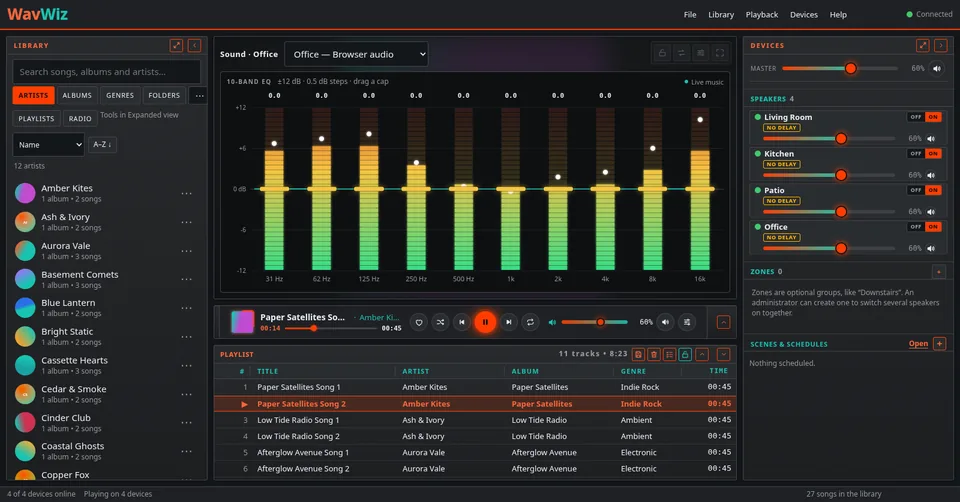
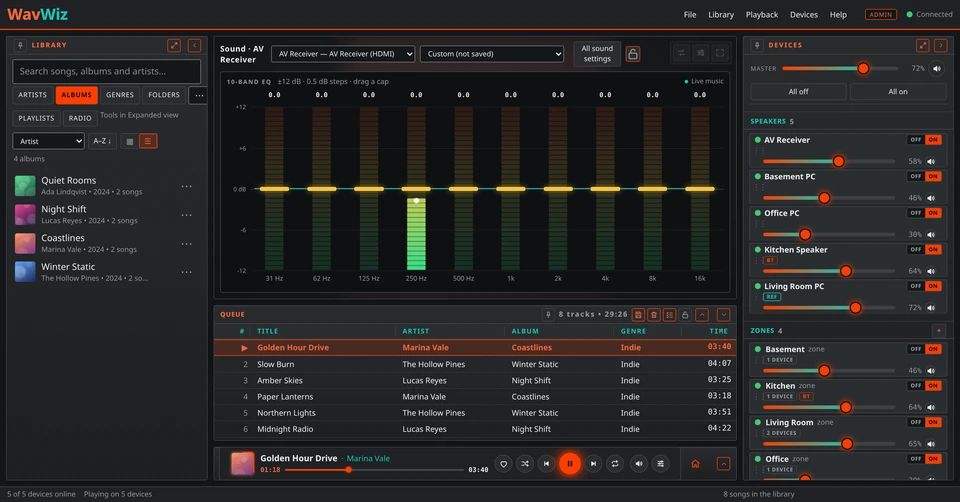
Site: 0.3.9 - Devices section, real 0.3.9 screenshots (devices bar, expanded devices, speaker settings, main window, social preview), What's New, softwareVersion 0.3.9

diff --git a/index.html b/index.html
@@ -19,7 +19,7 @@
   <meta property="og:image:type" content="image/png">
   <meta property="og:image:width" content="1200">
   <meta property="og:image:height" content="630">
-  <meta property="og:image:alt" content="The WavWiz app window: Library on the left, the live LED-bar EQ in the middle with a slim Now Playing bar below it, Devices on the right (master volume and Living Room, Kitchen, Patio and Office playing) and the Playlist.">
+  <meta property="og:image:alt" content="The WavWiz app window: Library on the left, the live LED-bar EQ in the middle with a slim Now Playing bar below it, Devices on the right (master volume, speakers and zones) and the Queue below the EQ.">
   <meta property="og:locale" content="en_US">
   <meta property="og:image:secure_url" content="https://wavwiz.com/assets/img/og-image.png">
   <meta name="twitter:card" content="summary_large_image">
@@ -78,7 +78,7 @@
         "softwareRequirements": "Microsoft Edge WebView2 Runtime for the player window (included with Windows 11 and current Windows 10)",
         "image": "https://wavwiz.com/assets/img/og-image.png",
         "screenshot": "https://wavwiz.com/assets/img/wavwiz-app-window.webp",
-        "softwareVersion": "0.3.6",
+        "softwareVersion": "0.3.9",
         "downloadUrl": "https://github.com/vdubbin74/WavWiz/releases/latest",
         "installUrl": "https://github.com/vdubbin74/WavWiz/releases/latest",
         "releaseNotes": "https://github.com/vdubbin74/WavWiz/releases/latest",
@@ -263,6 +263,7 @@
       </button>
       <nav class="site-nav" id="site-nav" aria-label="Main">
         <a href="#features">Features</a>
+        <a href="#devices">Devices</a>
         <a href="#new">What's new</a>
         <a href="#visualizers">Visualizers</a>
         <a href="#how">How it works</a>
@@ -325,8 +326,8 @@
           <h2 id="app-title">One window runs the <span class="accent-t">whole house</span>.</h2>
         </header>
         <figure class="app-frame reveal">
-          <img src="assets/img/wavwiz-app-window.webp" srcset="assets/img/wavwiz-app-window-960.webp 960w, assets/img/wavwiz-app-window.webp 1600w" sizes="(max-width: 1200px) calc(100vw - 36px), 1152px" width="1600" height="837" loading="lazy" decoding="async" alt="The WavWiz app window. Library panel on the left, the 10-band LED-bar EQ moving with live music in the middle and a slim one-line Now Playing bar below it, Devices on the right with master volume and Living Room, Kitchen, Patio and Office playing, and the Playlist across the bottom.">
-          <figcaption>The real WavWiz window: library, visualizer, Now Playing, devices and zones, and the shared playlist.</figcaption>
+          <img src="assets/img/wavwiz-app-window.webp" srcset="assets/img/wavwiz-app-window-960.webp 960w, assets/img/wavwiz-app-window.webp 1600w" sizes="(max-width: 1200px) calc(100vw - 36px), 1152px" width="1600" height="837" loading="lazy" decoding="async" alt="The WavWiz app window. Library panel on the left, the 10-band LED-bar EQ moving with live music in the middle and a slim one-line Now Playing bar below it, Devices on the right with master volume, speakers and zones, and the Queue below the EQ. The All sound settings button and the EQ padlock sit above the bands.">
+          <figcaption>The WavWiz window: Library, the EQ with its All sound settings button and padlock, the Queue, Now Playing, and the Devices bar.</figcaption>
         </figure>
       </div>
     </section>
@@ -384,12 +385,43 @@
     </section>
 
 
-    <!-- ============ NEW IN 0.3 ============ -->
+    <!-- ============ DEVICES (real screenshots drop in by file name; each figure shows once its image exists) ============ -->
+    <section class="section" id="devices" aria-labelledby="devices-title">
+      <div class="container">
+        <header class="section-head reveal">
+          <p class="eyebrow">Devices</p>
+          <h2 id="devices-title">Use the speakers you <span class="accent-o">already own</span>.</h2>
+        </header>
+        <div class="devices-grid">
+          <ul class="device-types reveal" aria-label="Devices WavWiz plays on">
+            <li><b>Wired and USB speakers</b>Plug them into a PC that runs WavWiz Player and pick the output. Each device shows what it plays through.</li>
+            <li><b>HDMI and AV receivers</b>Send a PC's HDMI output to a TV or receiver.</li>
+            <li><b>Bluetooth speakers</b>Pair one to a PC. Bluetooth adds lag, so give that device a little delay or calibrate it to line it up.</li>
+            <li><b>Other PCs</b>Any Windows 10 or 11 PC running WavWiz Player plays through its own speakers.</li>
+            <li><b>Phones and tablets</b>Open the page in a browser to play as a speaker, or just to control the music without playing. Smart-TV browsers are still in testing, so a PC plugged into the TV is the surest bet.</li>
+          </ul>
+            <figure class="shot shot-tall reveal" data-optional-shot hidden>
+              <img src="assets/img/wavwiz-devices-bar.webp" width="800" height="1000" loading="lazy" decoding="async" alt="The WavWiz Devices bar: master volume with All off and All on, then five speakers (AV Receiver, Basement PC, Office PC, Kitchen Speaker and Living Room PC), each with an on/off switch and volume.">
+              <figcaption>The Devices bar: master volume, and each speaker with its on/off switch and volume.</figcaption>
+            </figure>
+            <figure class="shot reveal" data-optional-shot hidden>
+              <img src="assets/img/wavwiz-devices-expanded.webp" width="1600" height="900" loading="lazy" decoding="async" alt="The expanded Devices view: Scenes and Schedules on the left, the Basement, Kitchen, Living Room and Office zones in the middle, and the five speakers with their output devices on the right.">
+              <figcaption>Expanded Devices: Scenes &amp; Schedules, Zones and Speakers side by side.</figcaption>
+            </figure>
+            <figure class="shot reveal" data-optional-shot hidden>
+              <img src="assets/img/wavwiz-speaker-settings.webp" width="1600" height="900" loading="lazy" decoding="async" alt="Speaker Settings for one speaker: volume, volume cap, delay, balance, bass and treble sliders, the 10-band EQ with a padlock, and the output for the Kitchen Speaker, a Bluetooth speaker with a 187 ms delay.">
+              <figcaption>Speaker Settings: volume, cap, delay, balance, bass and treble sliders, the EQ with a padlock, and the output.</figcaption>
+            </figure>
+        </div>
+      </div>
+    </section>
+
+    <!-- ============ WHAT'S NEW ============ -->
     <section class="section section-alt" id="new" aria-labelledby="new-title">
       <div class="container">
         <header class="section-head reveal">
-          <p class="eyebrow">New in 0.3</p>
-          <h2 id="new-title">Party mode, perfect sync, and <span class="accent-t">a lot more</span>.</h2>
+          <p class="eyebrow">What&rsquo;s new</p>
+          <h2 id="new-title">Party mode, a pocket-size player, and <span class="accent-t">a lot more</span>.</h2>
         </header>
         <div class="spot-grid">
           <article class="card spot reveal" aria-labelledby="spot-jukebox">
@@ -418,8 +450,17 @@
             </ul>
           </article>
         </div>
-        <ul class="more-grid reveal" aria-label="More new features">
-          <li><b>Mini player</b>A small window with cover, seek, play and volume. Pin it on top; it remembers where you left it.</li>
+        <p class="new-sub reveal">Latest updates</p>
+        <ul class="more-grid reveal" aria-label="Latest updates">
+          <li><b>Expanded Devices</b>Scenes &amp; Schedules, Zones and Speakers in three columns. Each speaker card shows its output, status and delay. There's a master row (All off, All on, master volume), click a card to open its settings, and drag cards to reorder them.</li>
+          <li><b>Calibration, easier</b>A louder test sound with its own volume slider, and a mic check with advice before each measurement. Your music stays paused until you resume, and a silent speaker is retried and named. Wired PC mics have worked on more than one setup; phone-mic calibration on iPhone is still in testing.</li>
+          <li><b>A stronger queue</b>Drag to reorder in every view, lock the queue and its sort, and right-click (or long-press) a song for Play next, Move to top, Remove and more. Clear has an Undo, and the queue comes back after an unexpected exit.</li>
+          <li><b>One EQ, all sound settings</b>Every EQ button opens the same center EQ. An All sound settings button adds presets, Bass, Treble, Loudness and Limiter in place, with one padlock to lock it all.</li>
+          <li><b>Shortcuts and pins</b>Keyboard shortcuts (Space, Ctrl+Right / Left, M, Alt+M and more, listed in Help &rsaquo; Keyboard shortcuts), media keys with WavWiz Player on Windows, and up to five one-click pins next to Home. Media keys and Alt shortcuts are still in testing on more PCs.</li>
+        </ul>
+        <p class="new-sub reveal">Also in this beta</p>
+        <ul class="more-grid reveal" aria-label="More features">
+          <li><b>Mini player</b>A small window with cover, seek, play, mute and a large volume bar. Pin it on top; it remembers where you left it.</li>
           <li><b>Alarms</b>Wake up to a playlist, song or station with a fade-in, on chosen days, with Snooze. <em>(beta)</em></li>
           <li><b>Sleep timer</b>15 to 90 minutes, end of song or end of album, then a gentle fade-out.</li>
           <li><b>Crossfade</b>0 to 12 seconds, off by default, and never inside an album.</li>
@@ -427,7 +468,6 @@
           <li><b>LED EQ</b>The live 10-band EQ sits in the middle of Now Playing with LED bars that follow the real level of each band, one tap from the visualizer, with Lock EQ.</li>
           <li><b>Hover menus</b>Sleep timer, New and Run (scenes, schedules, alarms) open as hover submenus, so one click does it. Playlist columns can be shown, hidden, resized, reordered and sorted.</li>
           <li><b>Backup and restore</b>Import, export, Back up now and Restore from the File menu, with a summary first and Undo restore. No passwords inside.</li>
-          <li><b>Speaker calibration</b>Measure each device's delay with a PC mic or your phone's mic, step by step. Phone-mic calibration on iPhone is still in testing.</li>
           <li><b>See every output</b>Each device shows what it plays through, like HDMI, Bluetooth or USB.</li>
         </ul>
       </div>
@@ -492,7 +532,7 @@
             <h3>Line up and play</h3>
             <p>Calibrate once with a PC mic or your phone so every device lines up, group devices into zones, and play on every device in sync. Having people over? Hand the queue to Jukebox mode.</p>
             <div class="step-media">
-              <img src="assets/img/wavwiz-app-window-960.webp" width="960" height="502" loading="lazy" decoding="async" alt="The WavWiz app window with the library, the 10-band LED-bar EQ and Now Playing in the middle, and Devices on the right with Living Room, Kitchen, Patio and Office playing together.">
+              <img src="assets/img/wavwiz-app-window-960.webp" width="960" height="502" loading="lazy" decoding="async" alt="The WavWiz app window with the library, the 10-band LED-bar EQ and Now Playing in the middle, and Devices on the right with master volume, speakers and zones.">
             </div>
           </li>
         </ol>
@@ -638,8 +678,7 @@
       <div class="footer-brand">
         <a class="wordmark" href="#top" aria-label="WavWiz home"><span class="wm-wav">Wav</span><span class="wm-wiz">Wiz</span></a>
         <p>Free, open-source whole-home audio for Windows.</p>
-        <p class="community">Community: Discord server and r/WavWiz, coming soon.</p>
-      </div>
+              </div>
       <nav class="footer-links" aria-label="Footer">
         <a href="https://github.com/vdubbin74/WavWiz" target="_blank" rel="noopener">GitHub</a>
         <a href="https://github.com/vdubbin74/WavWiz/releases/latest" target="_blank" rel="noopener">Release notes</a>

diff --git a/styles.css b/styles.css
@@ -437,3 +437,18 @@ p { margin: 0 0 1em; }
 .eqviz-kind.eqviz-visualizer { color: var(--orange); border-color: rgba(255,90,31,.4); }
 .eqviz-note { margin: 16px 0 0; text-align: center; color: var(--muted); font-size: .9rem; }
 @media (max-width: 700px) { .eqviz-grid { grid-template-columns: 1fr; } }
+
+/* Devices section */
+.devices-grid { display: grid; grid-template-columns: repeat(2, minmax(0, 1fr)); gap: 20px; align-items: stretch; }
+.device-types { margin: 0; padding: 0; list-style: none; display: grid; gap: 10px; }
+.device-types li { border: 1px solid var(--line); border-radius: var(--r); background: var(--panel); padding: 14px 16px; color: var(--muted); }
+.device-types { grid-auto-rows: 1fr; }
+.device-types li { display: flex; flex-direction: column; justify-content: center; }
+.shot { margin: 0; display: flex; flex-direction: column; border: 1px solid var(--line-2); border-radius: var(--r); overflow: hidden; background: #151a26; }
+.shot[hidden] { display: none; }
+.shot img { display: block; width: 100%; height: auto; flex: 1 1 auto; min-height: 0; object-fit: contain; object-position: center top; }
+.shot figcaption { padding: 10px 14px; border-top: 1px solid var(--line-2); color: var(--muted); font-size: .9rem; }
+.device-types b { display: block; color: #fff; font-family: var(--font-head); margin-bottom: 4px; }
+@media (max-width: 900px) { .device-types, .shot-tall { grid-column: 1 / -1; } .shot-tall { width: 100%; max-width: 460px; justify-self: center; } }
+@media (max-width: 640px) { .devices-grid { grid-template-columns: 1fr; } .device-types { grid-auto-rows: auto; } }
+.new-sub { margin: 26px 0 10px; font-family: var(--font-head); font-weight: 600; letter-spacing: .08em; text-transform: uppercase; font-size: .85rem; color: var(--teal); }

diff --git a/script.js b/script.js
@@ -414,9 +414,9 @@ const WAVWIZ_CONFIG = {
     if (!m || !/^https:\/\/github\.com\/vdubbin74\/WavWiz\/releases\/tag\/[^\s"<>]+$/.test(url) || !isFinite(when)) return;
     const age = Date.now() - when;
     if (age < -864e5 || age > FRESH_DAYS * 864e5) return;
-    el.querySelector(".rb-text").textContent = "WavWiz " + m[1] + " is out";
+    el.querySelector(".rb-text").textContent = "A new release is out";
     el.href = url;
-    el.setAttribute("aria-label", "New release: WavWiz " + m[1] + " is out. What's new (opens on GitHub)");
+    el.setAttribute("aria-label", "A new release is out. What's new (opens on GitHub)");
     el.hidden = false;
   };
   let cached = null;
@@ -433,4 +433,15 @@ const WAVWIZ_CONFIG = {
       save(r); if (r) show(r);
     })
     .catch(() => clearTimeout(timer));
+})();
+
+/* Optional real screenshots: each figure with data-optional-shot stays hidden until its image file exists, so new captures drop in with no page edits. */
+(function () {
+  document.querySelectorAll("figure[data-optional-shot]").forEach(function (fig) {
+    var img = fig.querySelector("img");
+    if (!img) return;
+    var probe = new Image();
+    probe.onload = function () { fig.hidden = false; };
+    probe.src = img.getAttribute("src");
+  });
 })();
